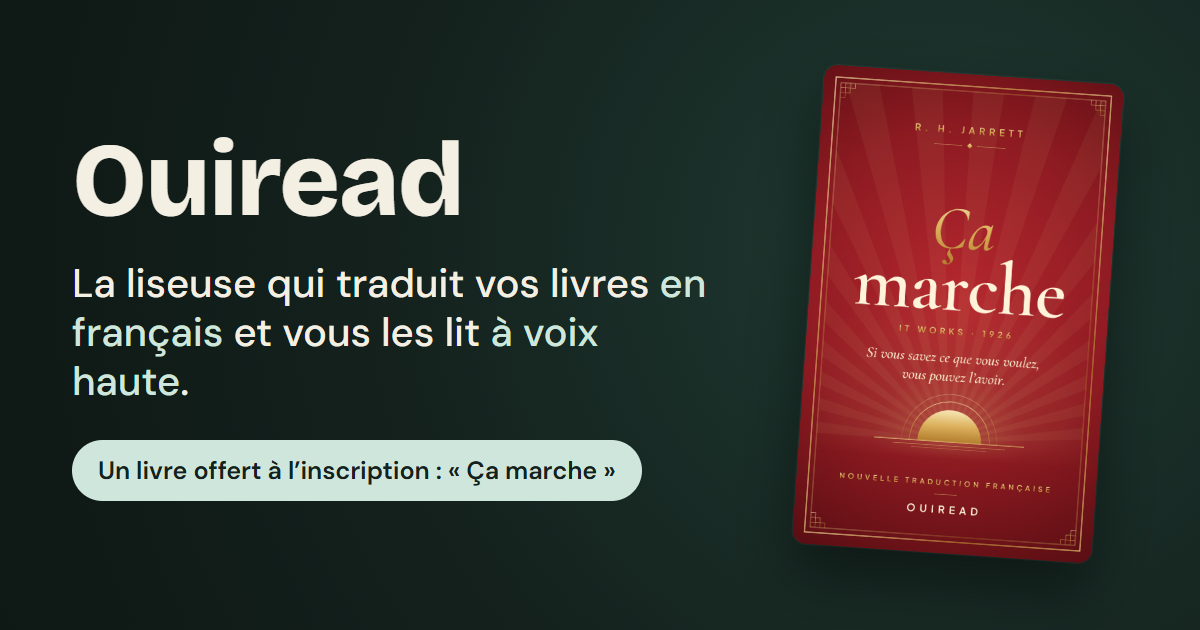
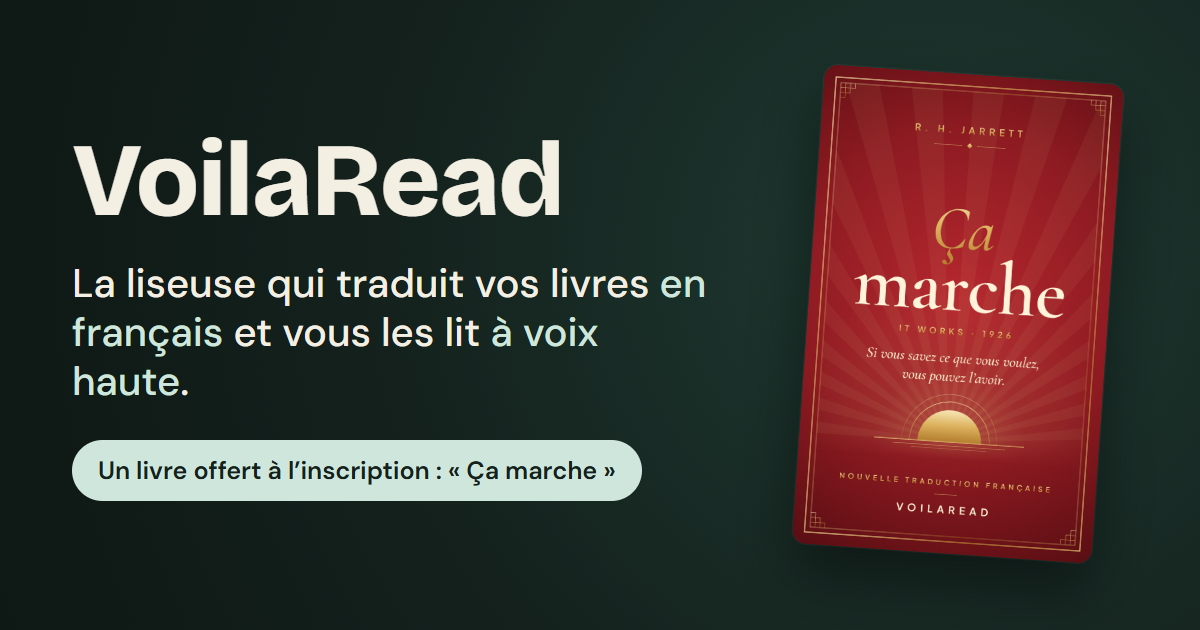
feat(web): rename the app to VoilaRead
The reader-facing name, page titles, link preview, web manifest and
legal pages now say VoilaRead. Server names stay as they are.

Changed region(s): [[0.0617, 0.2111, 0.4933, 0.3619], [0.74, 0.7841, 0.8017, 0.8143]]

diff --git a/apps/readest-app/src/app/layout.tsx b/apps/readest-app/src/app/layout.tsx
@@ -11,9 +11,9 @@ import '../styles/globals.css';
 
 // Ouiread's own address (the web build bakes NEXT_PUBLIC_API_BASE_URL).
 const url = `${(process.env['NEXT_PUBLIC_API_BASE_URL'] || 'https://ouiread.damien-aure99c.workers.dev').replace(/\/$/, '')}/`;
-const title = 'Ouiread — la liseuse qui traduit et lit vos livres';
+const title = 'VoilaRead — la liseuse qui traduit et lit vos livres';
 const description =
-  'Ouiread traduit vos livres en français et vous les lit à voix haute. ' +
+  'VoilaRead traduit vos livres en français et vous les lit à voix haute. ' +
   'Votre bibliothèque vous suit sur tous vos appareils, et un livre vous est offert ' +
   'à l’inscription : « Ça marche ».';
 const previewImage = '/og-ouiread.png';
@@ -22,7 +22,7 @@ export const metadata: Metadata = {
   metadataBase: new URL(url),
   title: {
     default: title,
-    template: '%s | Ouiread',
+    template: '%s | VoilaRead',
   },
   description,
   generator: 'Next.js',
@@ -30,7 +30,7 @@ export const metadata: Metadata = {
   keywords: ['liseuse', 'livres', 'traduction', 'lecture à voix haute', 'epub', 'pdf', 'ouiread'],
   authors: [
     {
-      name: 'Ouiread',
+      name: 'VoilaRead',
       url,
     },
   ],
@@ -40,7 +40,7 @@ export const metadata: Metadata = {
   },
   appleWebApp: {
     capable: true,
-    title: 'Ouiread',
+    title: 'VoilaRead',
     statusBarStyle: 'default',
   },
   openGraph: {
@@ -49,8 +49,8 @@ export const metadata: Metadata = {
     title,
     description,
     locale: 'fr_FR',
-    siteName: 'Ouiread',
-    images: [{ url: previewImage, width: 1200, height: 630, alt: 'Ouiread' }],
+    siteName: 'VoilaRead',
+    images: [{ url: previewImage, width: 1200, height: 630, alt: 'VoilaRead' }],
   },
   twitter: {
     card: 'summary_large_image',

diff --git a/apps/readest-app/src/app/confidentialite/page.tsx b/apps/readest-app/src/app/confidentialite/page.tsx
@@ -8,7 +8,7 @@ export default function ConfidentialitePage() {
     <LegalPage title='Politique de confidentialité' updated='22 novembre 2026'>
       <h2>Qui est responsable de vos données ?</h2>
       <p>
-        Ouiread est édité par Damien Aure, responsable du traitement de vos données. Pour toute
+        VoilaRead est édité par Damien Aure, responsable du traitement de vos données. Pour toute
         question, ou pour exercer vos droits, écrivez à{' '}
         <a href='mailto:genie.endormi@gmail.com' className='underline'>
           genie.endormi@gmail.com
@@ -96,7 +96,7 @@ export default function ConfidentialitePage() {
 
       <h2>Ce qui reste sur votre appareil</h2>
       <p>
-        Ouiread enregistre sur votre appareil ce dont il a besoin pour fonctionner : votre session
+        VoilaRead enregistre sur votre appareil ce dont il a besoin pour fonctionner : votre session
         de connexion, vos réglages et les livres que vous lisez. Rien de tout cela ne sert à vous
         suivre ni à vous montrer de la publicité.
       </p>

diff --git a/apps/readest-app/src/app/mentions-legales/page.tsx b/apps/readest-app/src/app/mentions-legales/page.tsx
@@ -34,14 +34,14 @@ export default function MentionsLegalesPage() {
 
       <h2>Logiciel libre</h2>
       <p>
-        Ouiread est une version modifiée de Readest, publiée sous licence GNU Affero General Public
-        License, version 3. Son code source est disponible sur github.com/DamsCA/readest.
+        VoilaRead est une version modifiée de Readest, publiée sous licence GNU Affero General
+        Public License, version 3. Son code source est disponible sur github.com/DamsCA/readest.
       </p>
 
       <h2>Livre offert</h2>
       <p>
         « Ça marche » est une traduction française de « It Works » (R. H. J., 1926). Le texte
-        original appartient au domaine public. Traduction et couverture : Ouiread.
+        original appartient au domaine public. Traduction et couverture : VoilaRead.
       </p>
 
       <h2>Données personnelles</h2>

diff --git a/apps/readest-app/src/components/LegalPage.tsx b/apps/readest-app/src/components/LegalPage.tsx
@@ -1,6 +1,6 @@
 import type { ReactNode } from 'react';
 
-/** Layout shared by Ouiread's legal pages: a scrollable column of readable text. */
+/** Layout shared by VoilaRead's legal pages: a scrollable column of readable text. */
 const LegalPage = ({
   title,
   updated,
@@ -13,7 +13,7 @@ const LegalPage = ({
   <main className='bg-base-100 text-base-content h-screen overflow-y-auto'>
     <article className='mx-auto max-w-2xl px-6 pb-16 pt-10 text-[15px] leading-relaxed'>
       <a href='/library' className='text-base-content/70 text-sm underline'>
-        ← Retour à Ouiread
+        ← Retour à VoilaRead
       </a>
       <h1 className='mb-2 mt-6 text-3xl font-bold'>{title}</h1>
       <p className='text-base-content/60 mb-8 text-sm'>Dernière mise à jour : {updated}</p>

diff --git a/apps/readest-app/src/services/constants.ts b/apps/readest-app/src/services/constants.ts
@@ -812,7 +812,7 @@ export const DOWNLOAD_READEST_URL = 'https://readest.com?utm_source=readest_web'
 
 // The app's name, shown in the library header. Provisional until the owner
 // picks the final name for the store listing.
-export const APP_DISPLAY_NAME = 'Ouiread';
+export const APP_DISPLAY_NAME = 'VoilaRead';
 
 // AGPL-3.0: the app is a modified version of Readest and must say so, with a
 // date (section 5a), and point to its complete source (sections 6 and 13).
